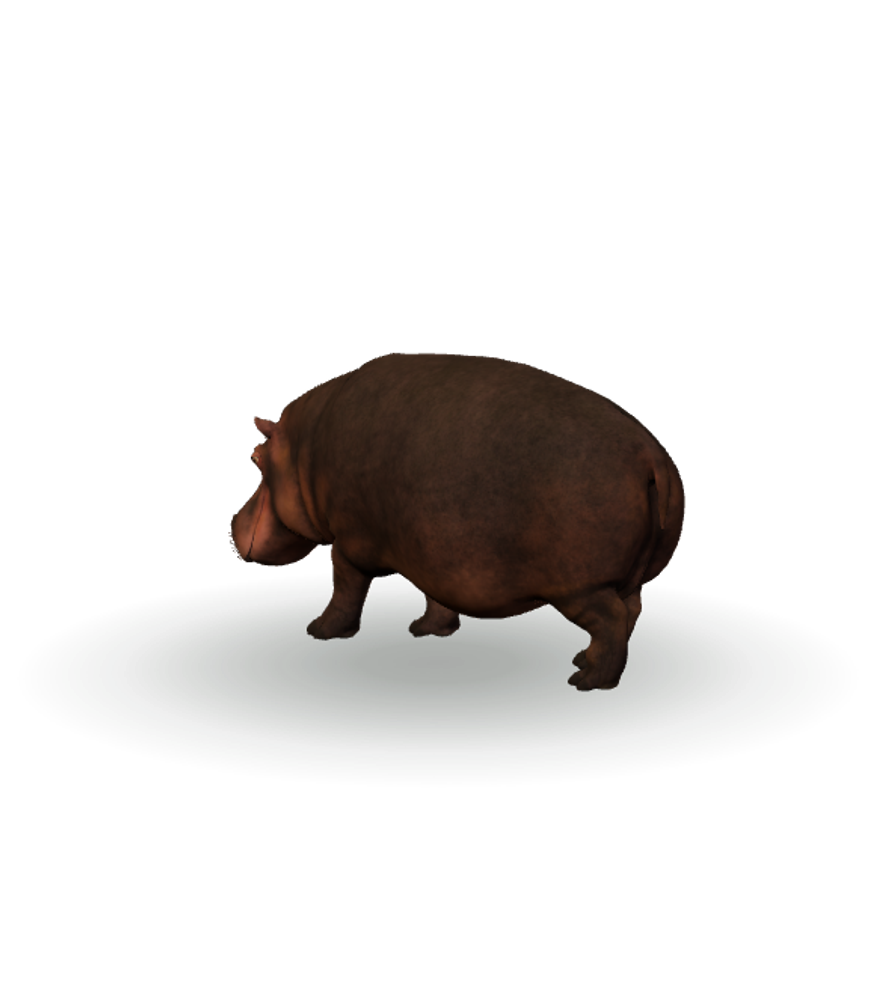
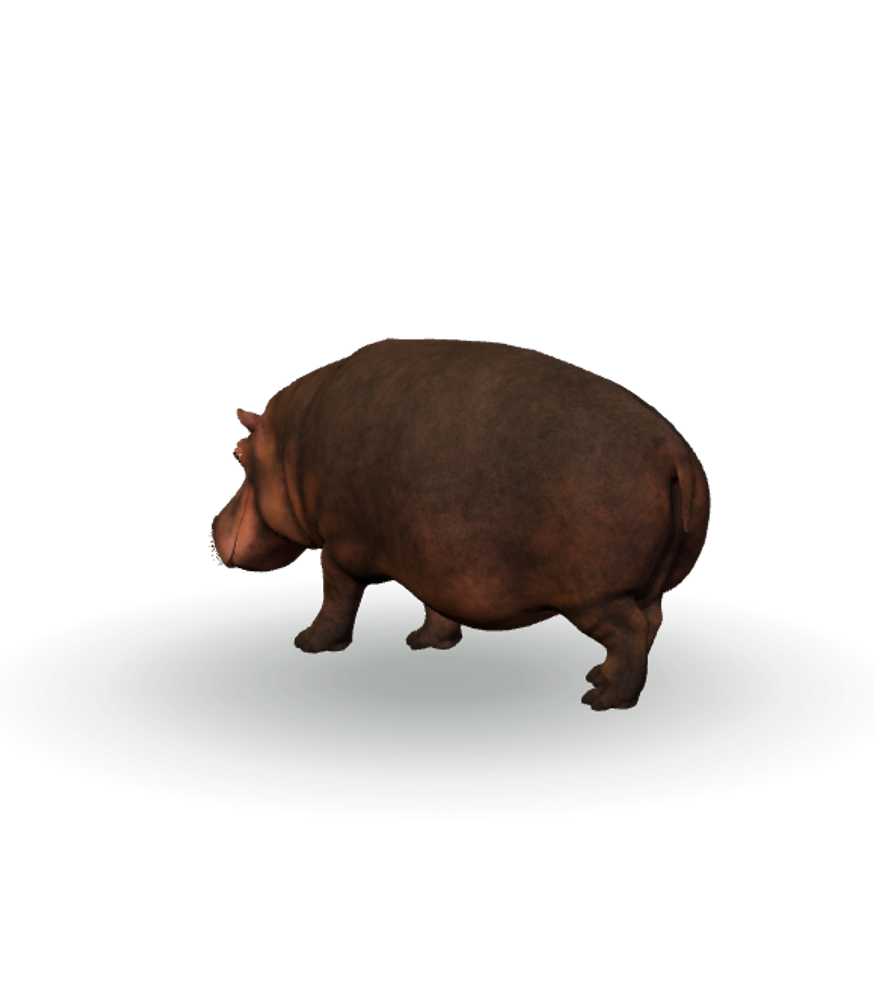
Brighten and enlarge boa, hippo, smilodon and dire-wolf presentations
Raise toneMappingExposure to 1.2 and cameraLightScale to 1.18, and
reduce safe-area padding (0.08/0.07 landscape, 0.09 portrait) so the
models fill more of the frame. Hippo and smilodon keep 0.08 landscape
after the edge-contact gate flagged 0.07 at the compact viewport.
Regenerate model previews for all four.

Changed region(s): [[0.216, 0.341, 0.8331, 0.713]]

diff --git a/src/content/animals/boa-constrictor/package.ts b/src/content/animals/boa-constrictor/package.ts
@@ -12,8 +12,10 @@ export const animalDefinition = definePublishedAnimal({
   content: { 'zh-CN': zhCN, en },
   presentation: {
     initialYawDegrees: -35,
-    safeAreaPadding: 0.12,
-    portraitSafeAreaPadding: 0.14,
+    safeAreaPadding: 0.07,
+    portraitSafeAreaPadding: 0.09,
+    cameraLightScale: 1.18,
+    toneMappingExposure: 1.2,
     shadow: 'ground',
     shadowOpacity: 0.35,
     shadowScale: 1.3,

diff --git a/src/content/animals/dire-wolf/package.ts b/src/content/animals/dire-wolf/package.ts
@@ -12,8 +12,10 @@ export const animalDefinition = definePublishedAnimal({
   content: { 'zh-CN': zhCN, en },
   presentation: {
     initialYawDegrees: -35,
-    safeAreaPadding: 0.12,
-    portraitSafeAreaPadding: 0.14,
+    safeAreaPadding: 0.07,
+    portraitSafeAreaPadding: 0.09,
+    cameraLightScale: 1.18,
+    toneMappingExposure: 1.2,
     shadow: 'ground',
     shadowOpacity: 0.35,
     shadowScale: 1.3,

diff --git a/src/content/animals/hippopotamus/package.ts b/src/content/animals/hippopotamus/package.ts
@@ -12,8 +12,10 @@ export const animalDefinition = definePublishedAnimal({
   content: { 'zh-CN': zhCN, en },
   presentation: {
     initialYawDegrees: 145,
-    safeAreaPadding: 0.12,
-    portraitSafeAreaPadding: 0.14,
+    safeAreaPadding: 0.08,
+    portraitSafeAreaPadding: 0.09,
+    cameraLightScale: 1.18,
+    toneMappingExposure: 1.2,
     shadow: 'ground',
     shadowOpacity: 0.35,
     shadowScale: 1.3,

diff --git a/src/content/animals/smilodon/package.ts b/src/content/animals/smilodon/package.ts
@@ -12,8 +12,10 @@ export const animalDefinition = definePublishedAnimal({
   content: { 'zh-CN': zhCN, en },
   presentation: {
     initialYawDegrees: -35,
-    safeAreaPadding: 0.12,
-    portraitSafeAreaPadding: 0.14,
+    safeAreaPadding: 0.08,
+    portraitSafeAreaPadding: 0.09,
+    cameraLightScale: 1.18,
+    toneMappingExposure: 1.2,
     shadow: 'ground',
     shadowOpacity: 0.35,
     shadowScale: 1.3,
